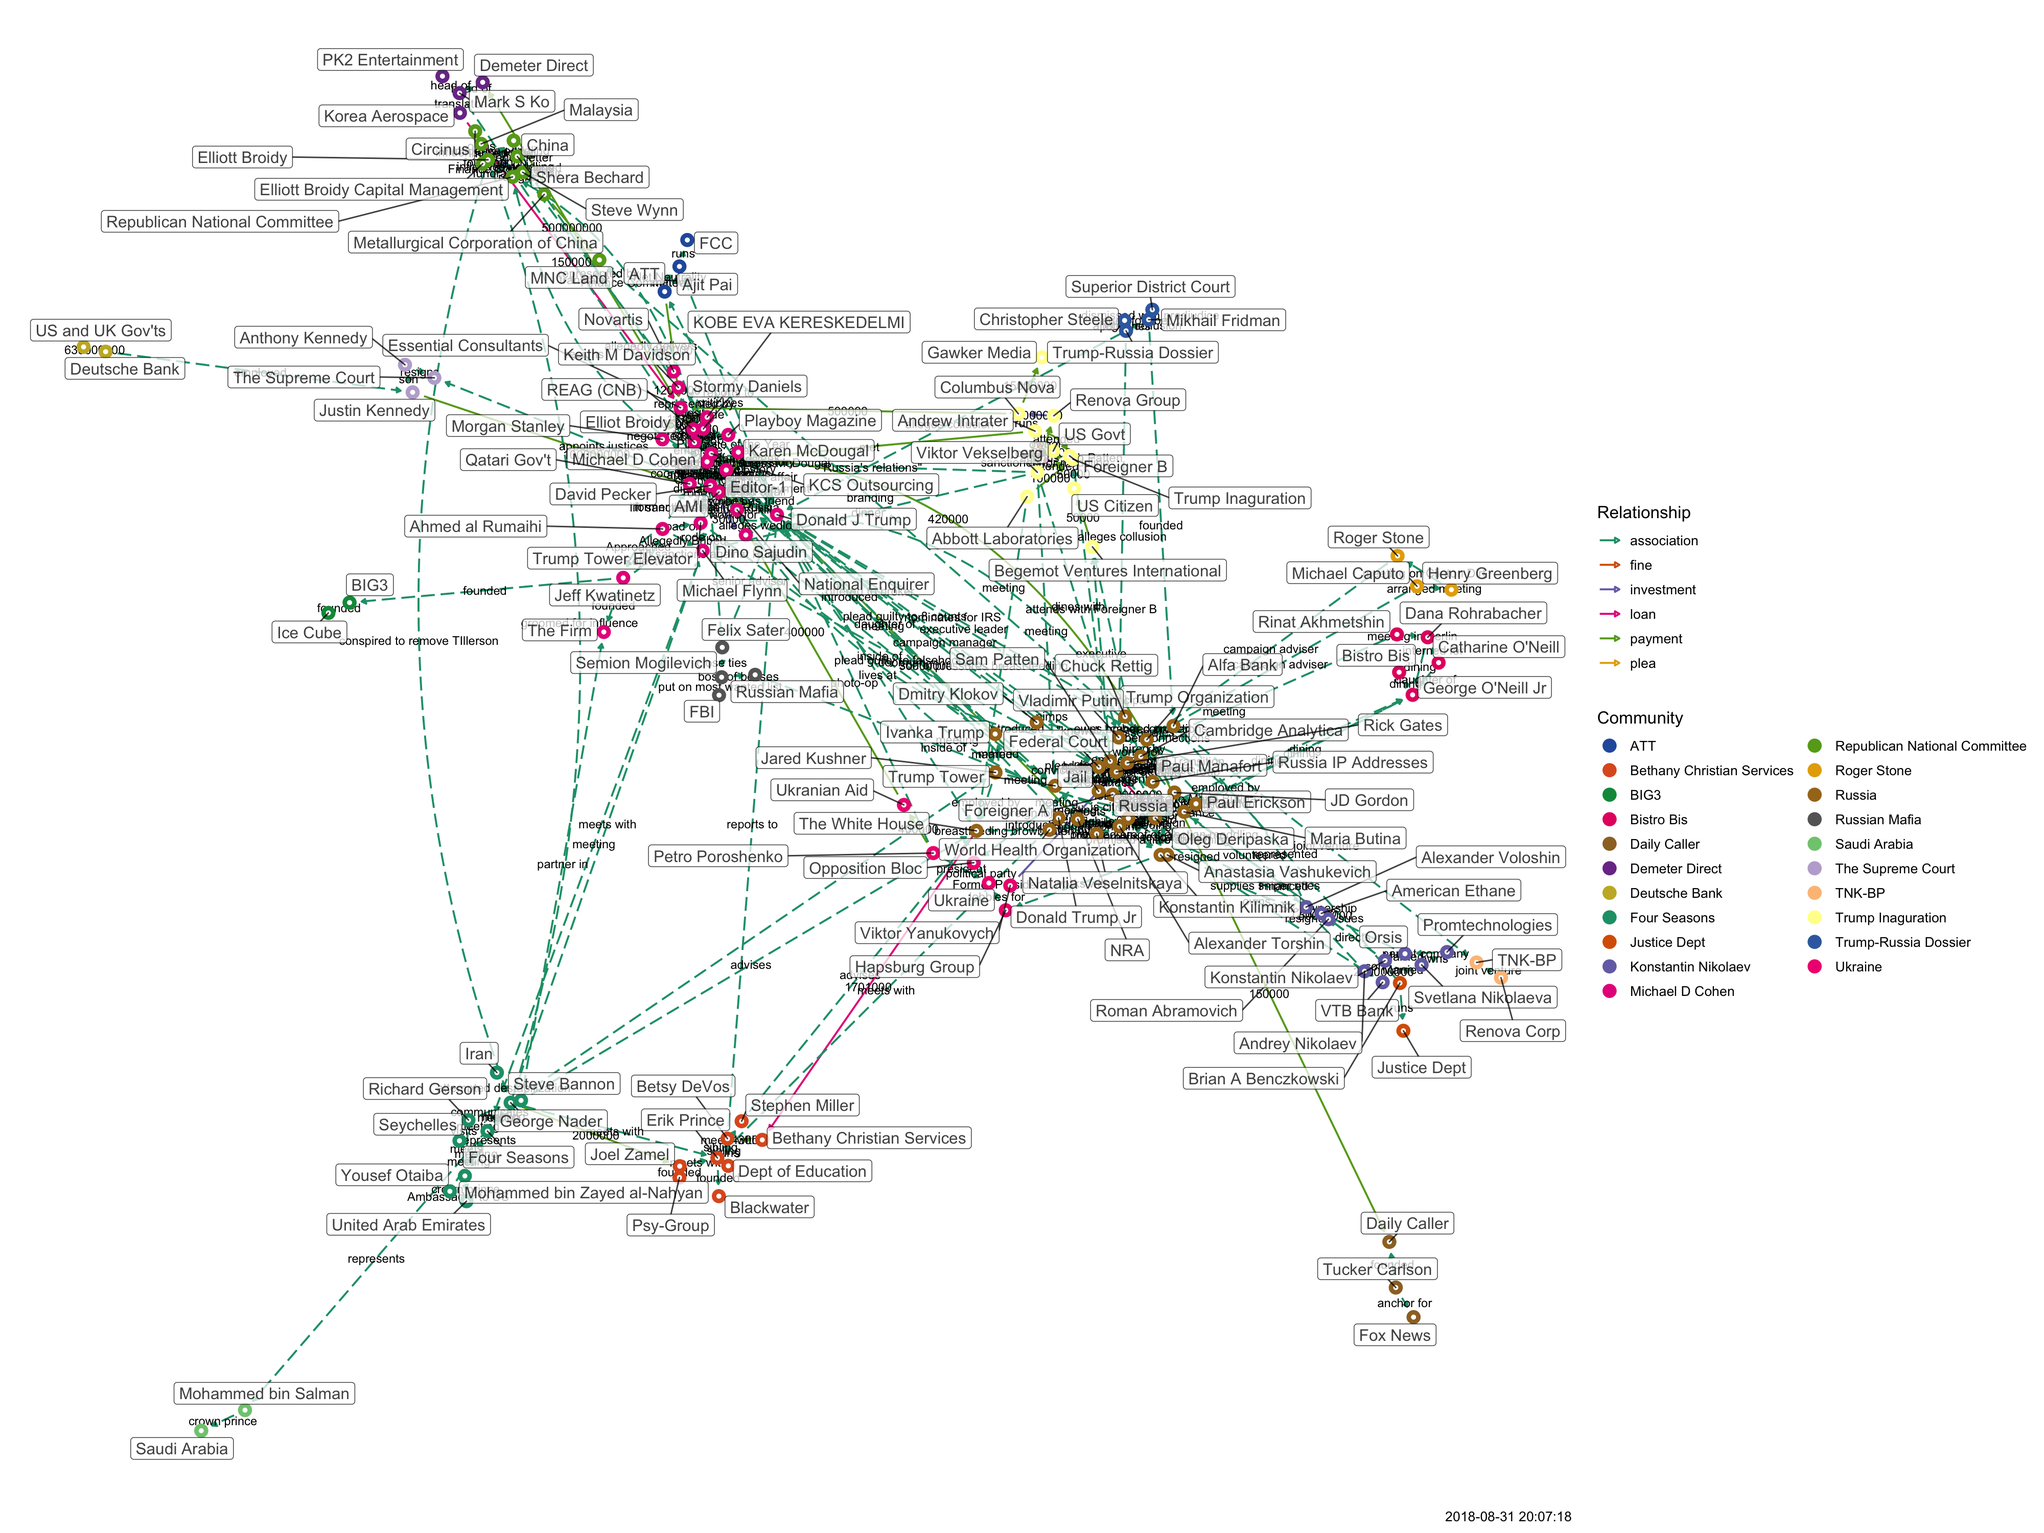
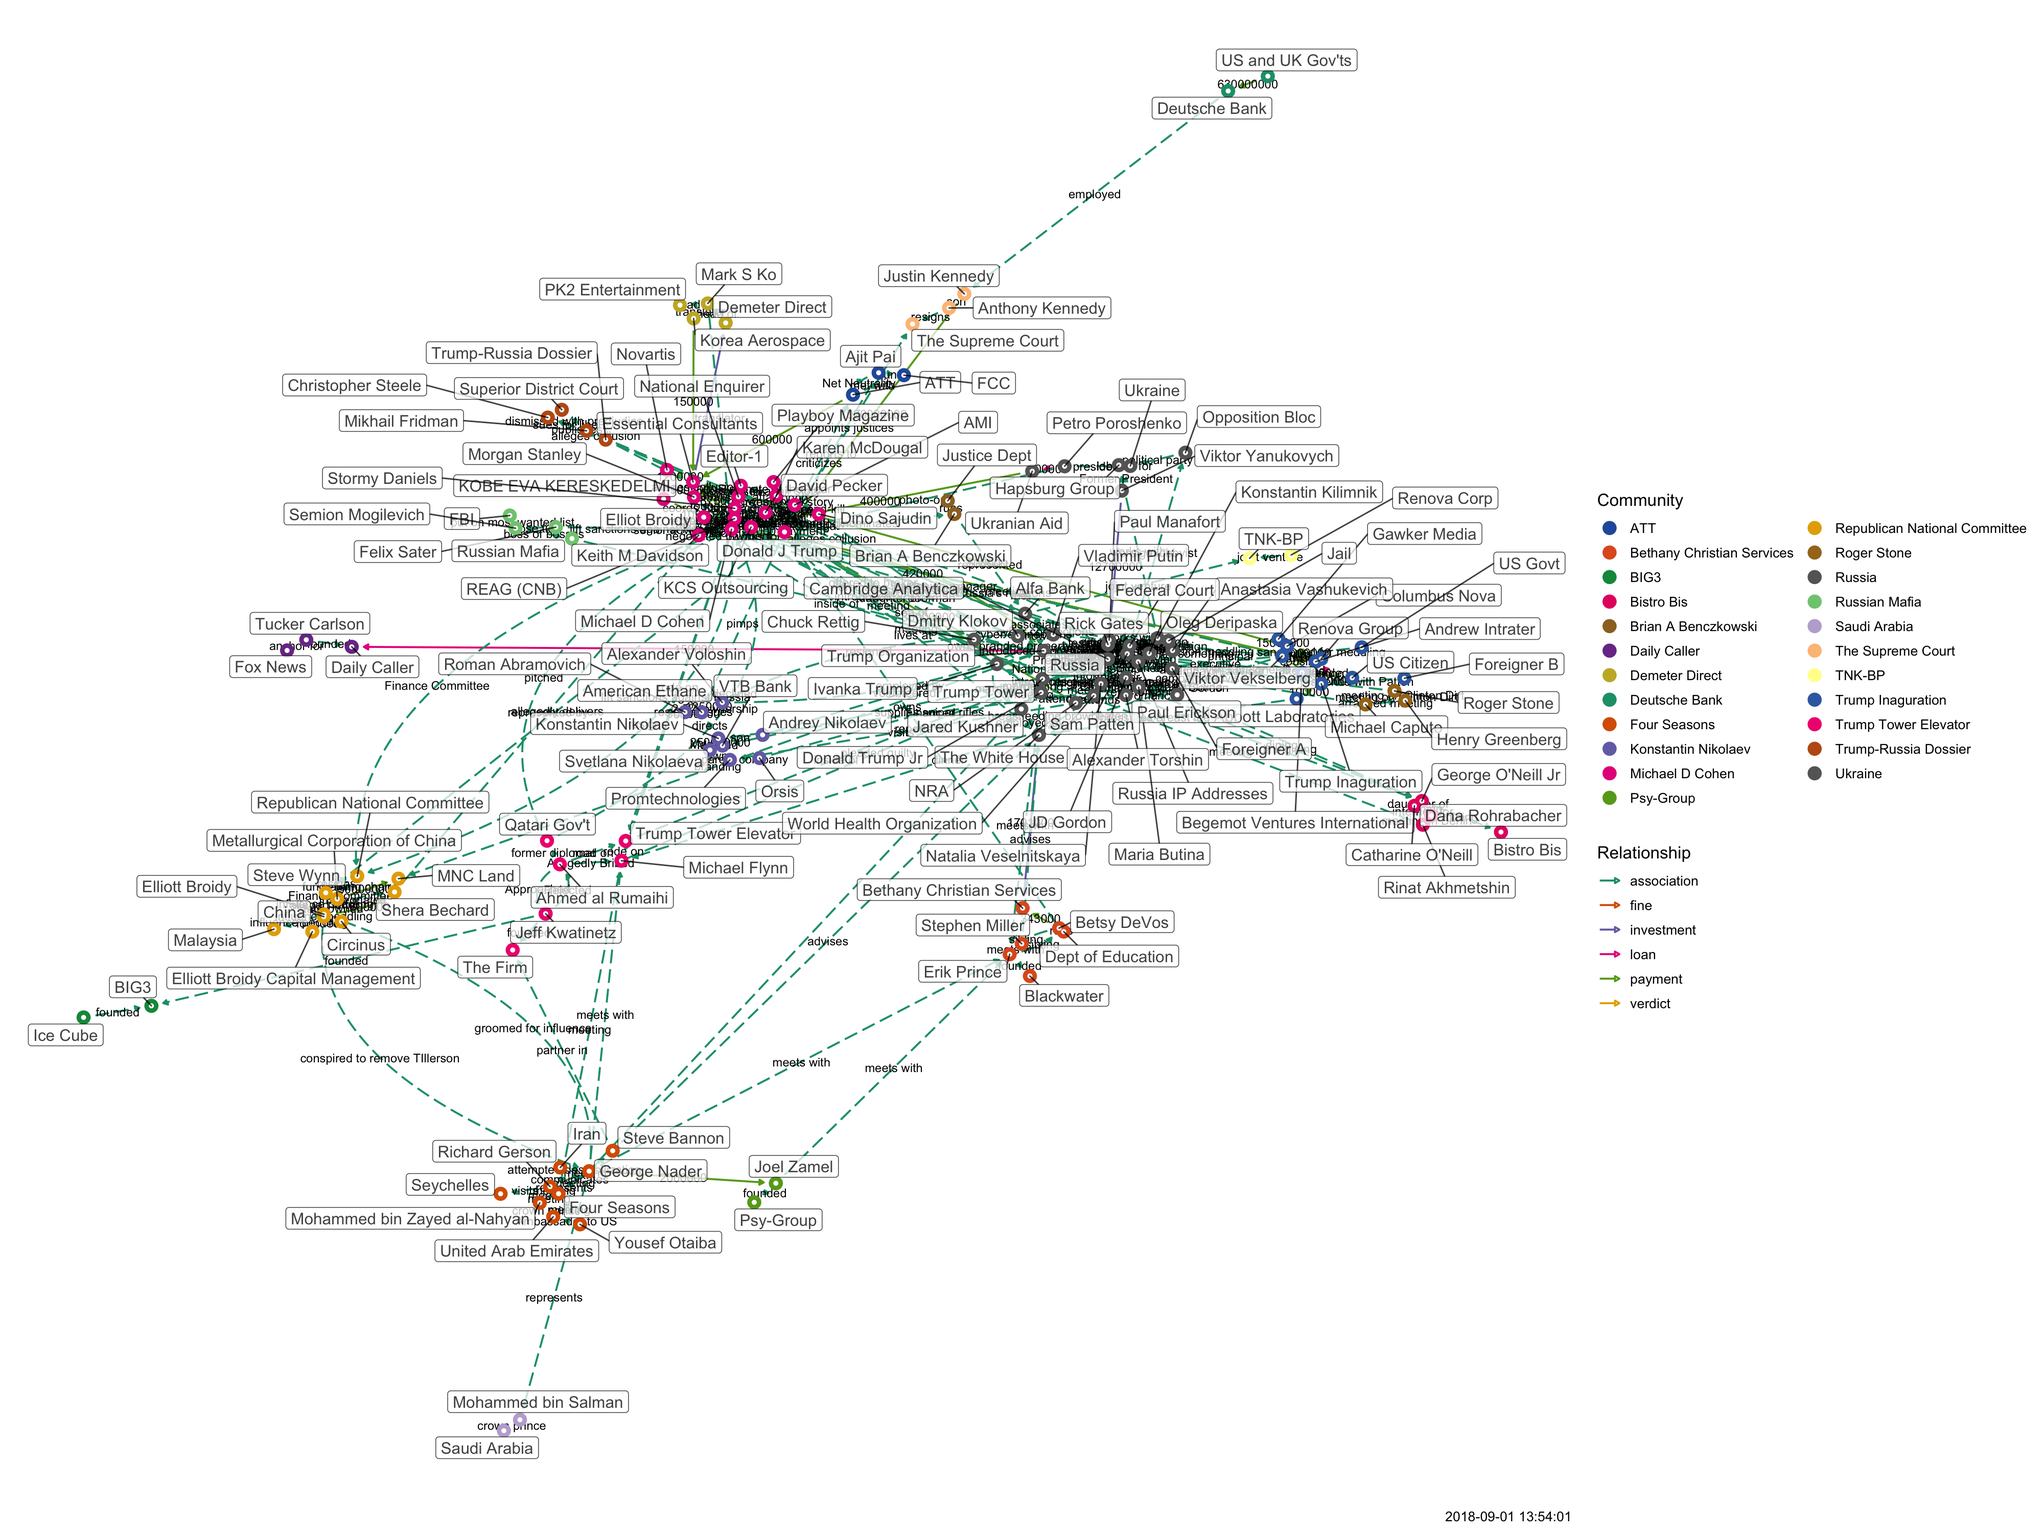
updated

diff --git a/docs/tangled-d3.html b/docs/tangled-d3.html
@@ -1143,11 +1143,11 @@ return function(){for(var n=0,e=0;e<t;++e)n+=Math.random();return n}},um=functio
 </head>
 <body style="background-color: white;">
 <div id="htmlwidget_container">
-<div id="htmlwidget-7fafbd98e7f2fd58aff3" class="forceNetwork html-widget" style="width:960px;height:500px;">
+<div id="htmlwidget-b10975fe0016fe1b77ed" class="forceNetwork html-widget" style="width:960px;height:500px;">
 
 </div>
 </div>
-<script type="application/json" data-for="htmlwidget-7fafbd98e7f2fd58aff3">{"x":{"links":{"source":[0,1,2,2,3,4,5,6,7,7,8,9,10,10,10,11,12,13,14,15,16,17,18,19,20,21,22,22,23,24,25,26,26,27,28,29,30,31,17,3,3,32,3,32,32,3,33,17,34,32,9,9,9,17,35,35,34,17,17,36,36,36,36,35,17,37,38,38,39,40,39,39,41,38,38,42,42,42,4,41,9,11,11,11,43,43,44,44,17,45,46,46,11,47,48,49,11,11,50,51,49,52,48,11,11,47,49,6,6,6,26,16,21,21,17,32,32,53,54,54,54,54,11,51,37,41,55,55,44,44,56,56,34,34,17,57,58,59,58,60,61,60,58,60,60,47,43,62,63,63,30,20,60,58,35,64,17,65,12,66,35,0,67,68,35,1,1,69,24,70,70,61,71,26,72,73,73,74,35,74,74,75,74,76,75,47,47,75,75,75,74,77,76,78,78,62,79,9,80,57,81,81,81,76,76,81,82,82,83,83,84,85,85,82,86,68,87,88,87,89,9,9,9,90,90,90,91,92,20,32,35,93,94,94,94,35,95,96,97,17,17,98,95,2,17,35,95,35,95,98,2,99,99,34,96,98,100,100,101,102,103,100,17,104,105,71,104,106,107,107,107,108,109,60,109,110,109,111,111,109,58,109,112,109,94,37,17,109],"target":[113,69,99,95,113,10,29,114,10,115,22,80,116,117,34,48,35,17,17,10,118,8,10,35,60,27,10,34,7,69,114,119,17,17,66,113,60,82,10,7,17,23,32,3,113,113,32,35,57,61,120,121,122,117,25,34,35,26,120,116,123,17,15,26,53,53,53,39,38,124,125,124,125,45,37,4,35,126,42,25,11,9,41,43,25,44,43,35,45,17,119,127,49,49,49,128,51,50,129,130,52,25,131,37,132,35,6,49,133,35,118,91,35,134,135,135,17,135,136,51,11,137,137,137,137,137,137,130,17,56,17,61,57,17,57,17,59,134,60,68,68,35,68,138,135,135,135,135,135,68,134,68,58,20,64,26,120,139,65,12,139,25,25,67,69,61,61,1,69,71,140,71,26,71,26,72,68,35,74,68,75,68,76,74,47,75,19,19,68,79,79,79,79,79,77,77,141,80,57,17,74,26,26,74,81,74,74,83,82,86,68,82,26,69,84,31,88,89,26,26,91,142,90,120,35,120,90,20,92,37,4,60,60,26,60,17,96,97,2,96,98,2,2,17,2,17,35,95,143,35,99,35,135,96,17,17,35,102,102,103,68,17,37,71,144,144,106,107,35,61,104,104,60,109,110,134,111,109,68,72,5,5,113,113,93,93,93,93],"colour":["red","blue","red","red","red","red","red","red","red","blue","red","red","red","red","red","red","blue","red","red","red","blue","red","red","blue","blue","red","red","red","blue","blue","red","red","red","red","blue","red","red","blue","blue","blue","blue","blue","blue","blue","blue","blue","blue","blue","blue","blue","blue","blue","blue","blue","blue","blue","blue","blue","blue","blue","blue","blue","blue","blue","blue","blue","blue","blue","blue","blue","blue","blue","blue","blue","blue","blue","blue","blue","blue","blue","blue","blue","blue","blue","blue","blue","blue","blue","blue","blue","blue","blue","blue","blue","blue","blue","blue","blue","blue","blue","blue","blue","blue","blue","blue","blue","blue","blue","blue","blue","blue","blue","blue","blue","blue","blue","blue","blue","blue","blue","blue","blue","blue","blue","blue","blue","blue","blue","blue","blue","blue","blue","blue","blue","blue","blue","blue","blue","blue","blue","blue","blue","blue","blue","blue","blue","blue","blue","blue","blue","blue","blue","blue","blue","blue","blue","blue","blue","blue","blue","blue","blue","blue","blue","blue","blue","blue","blue","blue","blue","blue","blue","blue","blue","blue","blue","blue","blue","blue","blue","blue","blue","blue","blue","blue","blue","blue","blue","blue","blue","blue","blue","blue","blue","blue","blue","blue","blue","blue","blue","blue","blue","blue","blue","blue","blue","blue","blue","blue","blue","blue","blue","blue","blue","blue","blue","blue","blue","blue","blue","blue","blue","blue","blue","blue","blue","blue","blue","blue","blue","blue","blue","blue","blue","blue","blue","blue","blue","blue","blue","blue","blue","blue","blue","blue","blue","blue","blue","blue","blue","blue","blue","blue","blue","blue","blue","blue","blue","blue","blue","blue","blue","blue","blue","blue","blue","blue","blue","blue","blue","blue","blue","blue","blue","blue","blue","blue","blue","blue","blue","blue","blue","blue","blue","blue","blue","blue","blue"]},"nodes":{"name":["Abbott Laboratories","Alexander Voloshin","AMI","Andrew Intrater","ATT","Begemot Ventures International","Betsy DeVos","Columbus Nova","Elliot Broidy","Elliott Broidy","Essential Consultants","George Nader","Justin Kennedy","KCS Outsourcing","KOBE EVA KERESKEDELMI","Korea Aerospace","Metallurgical Corporation of China","Michael D Cohen","Novartis","NRA","Oleg Deripaska","Petro Poroshenko","REAG (CNB)","Renova Group","Roman Abramovich","The White House","Trump Organization","Ukranian Aid","US and UK Gov'ts","US Citizen","Viktor Yanukovych","VTB Bank","Viktor Vekselberg","US Govt","Stormy Daniels","Donald J Trump","Mark S Ko","Michael Flynn","Ahmed al Rumaihi","Jeff Kwatinetz","Ice Cube","Steve Bannon","Ajit Pai","Jared Kushner","Ivanka Trump","Qatari Gov't","Tucker Carlson","Donald Trump Jr","Joel Zamel","Erik Prince","Mohammed bin Salman","Mohammed bin Zayed al-Nahyan","Stephen Miller","Trump Tower Elevator","Richard Gerson","Yousef Otaiba","Dmitry Klokov","Keith M Davidson","Konstantin Kilimnik","Hapsburg Group","Paul Manafort","Vladimir Putin","Rinat Akhmetshin","Natalia Veselnitskaya","Chuck Rettig","Anthony Kennedy","Deutsche Bank","World Health Organization","Russia","American Ethane","Brian A Benczkowski","Alfa Bank","Cambridge Analytica","Russia IP Addresses","Maria Butina","Alexander Torshin","Paul Erickson","Dana Rohrabacher","Catharine O'Neill","George O'Neill Jr","Shera Bechard","JD Gordon","Konstantin Nikolaev","Svetlana Nikolaeva","Orsis","Andrey Nikolaev","Promtechnologies","Michael Caputo","Henry Greenberg","Roger Stone","Steve Wynn","China","Anastasia Vashukevich","Federal Court","Rick Gates","Karen McDougal","Editor-1","National Enquirer","David Pecker","Dino Sajudin","Felix Sater","FBI","Semion Mogilevich","Russian Mafia","Mikhail Fridman","Renova Corp","Christopher Steele","Trump-Russia Dossier","Superior District Court","Sam Patten","Opposition Bloc","Foreigner A","Foreigner B","Trump Inaguration","Bethany Christian Services","Gawker Media","Demeter Direct","Morgan Stanley","MNC Land","Daily Caller","Republican National Committee","Elliott Broidy Capital Management","Circinus","PK2 Entertainment","BIG3","The Firm","FCC","Fox News","Blackwater","Saudi Arabia","United Arab Emirates","Psy-Group","Iran","Dept of Education","Ukraine","Trump Tower","Seychelles","Four Seasons","Jail","The Supreme Court","Justice Dept","Bistro Bis","Malaysia","Playboy Magazine","TNK-BP"],"group":["3","5","2","3","14","3","7","3","2","4","2","6","15","2","2","11","4","2","2","1","1","8","2","3","5","1","1","8","21","3","8","5","3","3","2","2","11","2","2","2","20","6","14","1","1","2","13","1","7","7","17","6","7","2","6","6","1","2","1","8","1","1","9","1","1","15","21","1","1","5","18","1","1","1","1","1","1","9","9","9","4","1","5","5","5","5","5","16","16","16","4","4","1","1","1","2","2","2","2","2","10","10","10","10","12","19","12","12","12","1","8","1","3","3","7","3","11","2","4","13","4","4","4","11","20","2","14","13","7","17","6","7","6","7","8","1","6","6","1","15","18","9","4","2","19"]},"options":{"NodeID":"name","Group":"group","colourScale":"d3.scaleOrdinal(d3.schemeCategory20);","fontSize":20,"fontFamily":"serif","clickTextSize":50,"linkDistance":50,"linkWidth":"function(d) { return Math.sqrt(d.value); }","charge":-100,"opacity":1,"zoom":true,"legend":false,"arrows":false,"nodesize":false,"radiusCalculation":" Math.sqrt(d.nodesize)+6","bounded":false,"opacityNoHover":1,"clickAction":null}},"evals":[],"jsHooks":[]}</script>
-<script type="application/htmlwidget-sizing" data-for="htmlwidget-7fafbd98e7f2fd58aff3">{"viewer":{"width":450,"height":350,"padding":10,"fill":true},"browser":{"width":960,"height":500,"padding":10,"fill":true}}</script>
+<script type="application/json" data-for="htmlwidget-b10975fe0016fe1b77ed">{"x":{"links":{"source":[0,1,2,2,3,4,5,6,7,7,8,9,10,10,10,11,12,13,14,15,16,17,18,19,20,21,22,22,23,24,25,26,26,27,28,29,30,31,17,3,3,32,3,32,32,3,33,17,34,32,9,9,9,17,35,35,34,17,17,36,36,36,36,35,17,37,38,38,39,40,39,39,41,38,38,42,42,42,4,41,9,11,11,11,43,43,44,44,17,45,46,46,11,47,48,49,11,11,50,51,49,52,48,11,11,47,49,6,6,6,26,16,21,21,17,32,32,53,54,54,54,54,11,51,37,41,55,55,44,44,56,56,34,34,17,57,58,59,58,60,61,60,58,60,60,47,43,62,63,63,30,20,60,58,35,64,17,65,12,66,35,0,67,68,35,1,1,69,24,70,35,70,61,71,26,72,73,73,74,35,74,74,75,74,76,75,47,47,75,75,75,74,77,76,78,78,62,79,9,80,57,81,81,81,76,76,81,82,82,83,83,84,85,85,19,82,86,68,87,88,89,87,89,9,9,9,90,90,90,91,92,20,32,35,93,94,94,94,94,37,17,35,95,96,97,17,17,98,95,2,17,35,95,35,95,98,2,99,99,34,96,98,100,100,101,102,103,100,17,104,105,71,104,106,107,107,107,108,109,60,109,110,109,111,111,109,109,58,109,112,109],"target":[113,69,99,95,113,10,29,114,10,115,22,80,116,117,34,48,35,17,17,10,118,8,10,35,60,27,10,34,7,69,114,119,17,17,66,113,60,82,10,7,17,23,32,3,113,113,32,35,57,61,120,121,122,117,25,34,35,26,120,116,123,17,15,26,53,53,53,39,38,124,125,124,125,45,37,4,35,126,42,25,11,9,41,43,25,44,43,35,45,17,119,127,49,49,49,128,51,50,129,130,52,25,131,37,132,35,6,49,133,35,118,91,35,134,135,135,17,135,136,51,11,137,137,137,137,137,137,130,17,56,17,61,57,17,57,17,59,134,60,68,68,35,68,138,135,135,135,135,135,68,134,68,58,20,64,26,120,139,65,12,139,25,25,67,69,61,61,1,69,71,70,140,71,26,71,26,72,68,35,74,68,75,68,76,74,47,75,19,19,68,79,79,79,79,79,77,77,141,80,57,17,74,26,26,74,81,74,74,83,82,86,68,82,26,86,69,84,31,88,89,88,26,26,91,142,90,120,35,120,90,20,92,37,4,60,60,26,93,60,93,93,17,96,97,2,96,98,2,2,17,2,17,35,95,143,35,99,35,135,96,17,17,35,102,102,103,68,17,37,71,144,144,106,107,35,61,104,104,60,109,110,134,111,109,68,72,93,5,5,113,113],"colour":["red","blue","red","red","red","red","red","red","red","blue","red","red","red","red","red","red","blue","red","red","red","blue","red","red","blue","blue","red","red","red","blue","blue","red","red","red","red","blue","red","red","blue","blue","blue","blue","blue","blue","blue","blue","blue","blue","blue","blue","blue","blue","blue","blue","blue","blue","blue","blue","blue","blue","blue","blue","blue","blue","blue","blue","blue","blue","blue","blue","blue","blue","blue","blue","blue","blue","blue","blue","blue","blue","blue","blue","blue","blue","blue","blue","blue","blue","blue","blue","blue","blue","blue","blue","blue","blue","blue","blue","blue","blue","blue","blue","blue","blue","blue","blue","blue","blue","blue","blue","blue","blue","blue","blue","blue","blue","blue","blue","blue","blue","blue","blue","blue","blue","blue","blue","blue","blue","blue","blue","blue","blue","blue","blue","blue","blue","blue","blue","blue","blue","blue","blue","blue","blue","blue","blue","blue","blue","blue","blue","blue","blue","blue","blue","blue","blue","blue","blue","blue","blue","blue","blue","blue","blue","blue","blue","blue","blue","blue","blue","blue","blue","blue","blue","blue","blue","blue","blue","blue","blue","blue","blue","blue","blue","blue","blue","blue","blue","blue","blue","blue","blue","blue","blue","blue","blue","blue","blue","blue","blue","blue","blue","blue","blue","blue","blue","blue","blue","blue","blue","blue","blue","blue","blue","blue","blue","blue","blue","blue","blue","blue","blue","blue","blue","blue","blue","blue","blue","blue","blue","blue","blue","blue","blue","blue","blue","blue","blue","blue","blue","blue","blue","blue","blue","blue","blue","blue","blue","blue","blue","blue","blue","blue","blue","blue","blue","blue","blue","blue","blue","blue","blue","blue","blue","blue","blue","blue","blue","blue","blue","blue","blue","blue","blue","blue","blue","blue","blue","blue","blue","blue","blue","blue","blue","blue","blue","blue","blue","blue","blue","blue","blue"]},"nodes":{"name":["Abbott Laboratories","Alexander Voloshin","AMI","Andrew Intrater","ATT","Begemot Ventures International","Betsy DeVos","Columbus Nova","Elliot Broidy","Elliott Broidy","Essential Consultants","George Nader","Justin Kennedy","KCS Outsourcing","KOBE EVA KERESKEDELMI","Korea Aerospace","Metallurgical Corporation of China","Michael D Cohen","Novartis","NRA","Oleg Deripaska","Petro Poroshenko","REAG (CNB)","Renova Group","Roman Abramovich","The White House","Trump Organization","Ukranian Aid","US and UK Gov'ts","US Citizen","Viktor Yanukovych","VTB Bank","Viktor Vekselberg","US Govt","Stormy Daniels","Donald J Trump","Mark S Ko","Michael Flynn","Ahmed al Rumaihi","Jeff Kwatinetz","Ice Cube","Steve Bannon","Ajit Pai","Jared Kushner","Ivanka Trump","Qatari Gov't","Tucker Carlson","Donald Trump Jr","Joel Zamel","Erik Prince","Mohammed bin Salman","Mohammed bin Zayed al-Nahyan","Stephen Miller","Trump Tower Elevator","Richard Gerson","Yousef Otaiba","Dmitry Klokov","Keith M Davidson","Konstantin Kilimnik","Hapsburg Group","Paul Manafort","Vladimir Putin","Rinat Akhmetshin","Natalia Veselnitskaya","Chuck Rettig","Anthony Kennedy","Deutsche Bank","World Health Organization","Russia","American Ethane","Brian A Benczkowski","Alfa Bank","Cambridge Analytica","Russia IP Addresses","Maria Butina","Alexander Torshin","Paul Erickson","Dana Rohrabacher","Catharine O'Neill","George O'Neill Jr","Shera Bechard","JD Gordon","Konstantin Nikolaev","Svetlana Nikolaeva","Orsis","Andrey Nikolaev","Promtechnologies","Michael Caputo","Henry Greenberg","Roger Stone","Steve Wynn","China","Anastasia Vashukevich","Federal Court","Rick Gates","Karen McDougal","Editor-1","National Enquirer","David Pecker","Dino Sajudin","Felix Sater","FBI","Semion Mogilevich","Russian Mafia","Mikhail Fridman","Renova Corp","Christopher Steele","Trump-Russia Dossier","Superior District Court","Sam Patten","Opposition Bloc","Foreigner A","Foreigner B","Trump Inaguration","Bethany Christian Services","Gawker Media","Demeter Direct","Morgan Stanley","MNC Land","Daily Caller","Republican National Committee","Elliott Broidy Capital Management","Circinus","PK2 Entertainment","BIG3","The Firm","FCC","Fox News","Blackwater","Saudi Arabia","United Arab Emirates","Psy-Group","Iran","Dept of Education","Ukraine","Trump Tower","Seychelles","Four Seasons","Jail","The Supreme Court","Justice Dept","Bistro Bis","Malaysia","Playboy Magazine","TNK-BP"],"group":["3","5","2","3","15","3","8","3","2","4","2","6","16","2","2","12","4","2","2","1","1","9","2","3","5","1","1","9","23","3","9","5","3","3","2","2","12","7","7","7","22","6","15","1","1","7","14","1","19","8","20","6","8","7","6","6","1","2","1","9","1","1","10","1","1","16","23","1","1","5","18","1","1","1","1","1","1","10","10","10","4","1","5","5","5","5","5","17","17","17","4","4","1","1","1","2","2","2","2","2","11","11","11","11","13","21","13","13","13","1","9","1","3","3","8","3","12","2","4","14","4","4","4","12","22","7","15","14","8","20","6","19","6","8","9","1","6","6","1","16","18","10","4","2","21"]},"options":{"NodeID":"name","Group":"group","colourScale":"d3.scaleOrdinal(d3.schemeCategory20);","fontSize":20,"fontFamily":"serif","clickTextSize":50,"linkDistance":50,"linkWidth":"function(d) { return Math.sqrt(d.value); }","charge":-100,"opacity":1,"zoom":true,"legend":false,"arrows":false,"nodesize":false,"radiusCalculation":" Math.sqrt(d.nodesize)+6","bounded":false,"opacityNoHover":1,"clickAction":null}},"evals":[],"jsHooks":[]}</script>
+<script type="application/htmlwidget-sizing" data-for="htmlwidget-b10975fe0016fe1b77ed">{"viewer":{"width":450,"height":350,"padding":10,"fill":true},"browser":{"width":960,"height":500,"padding":10,"fill":true}}</script>
 </body>
 </html>
